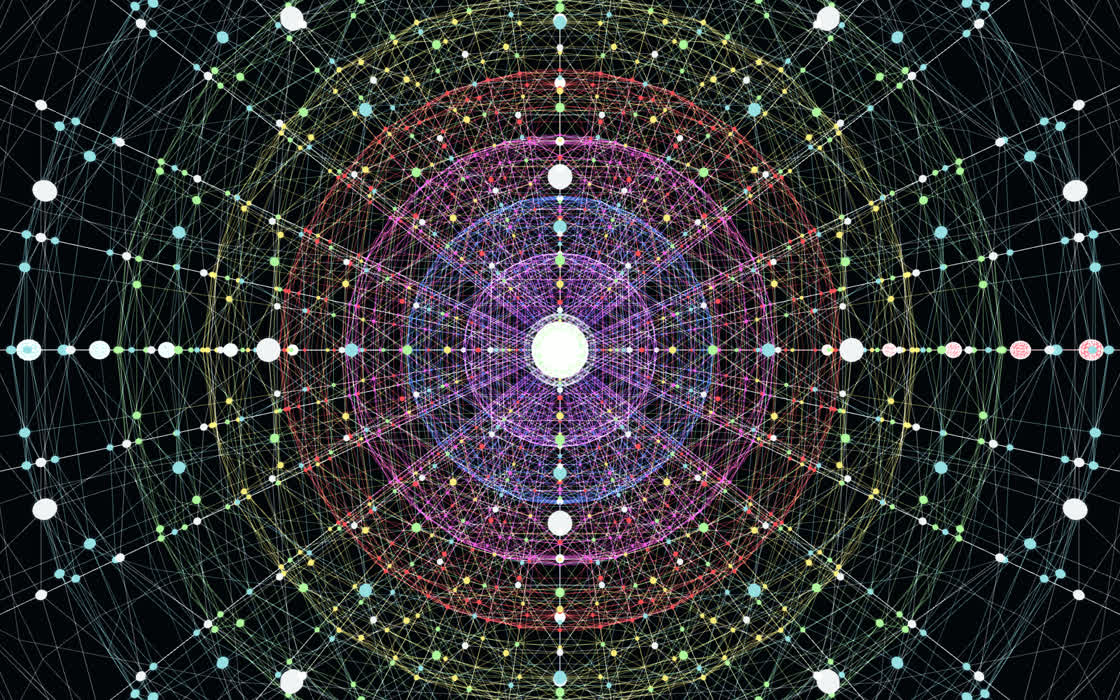
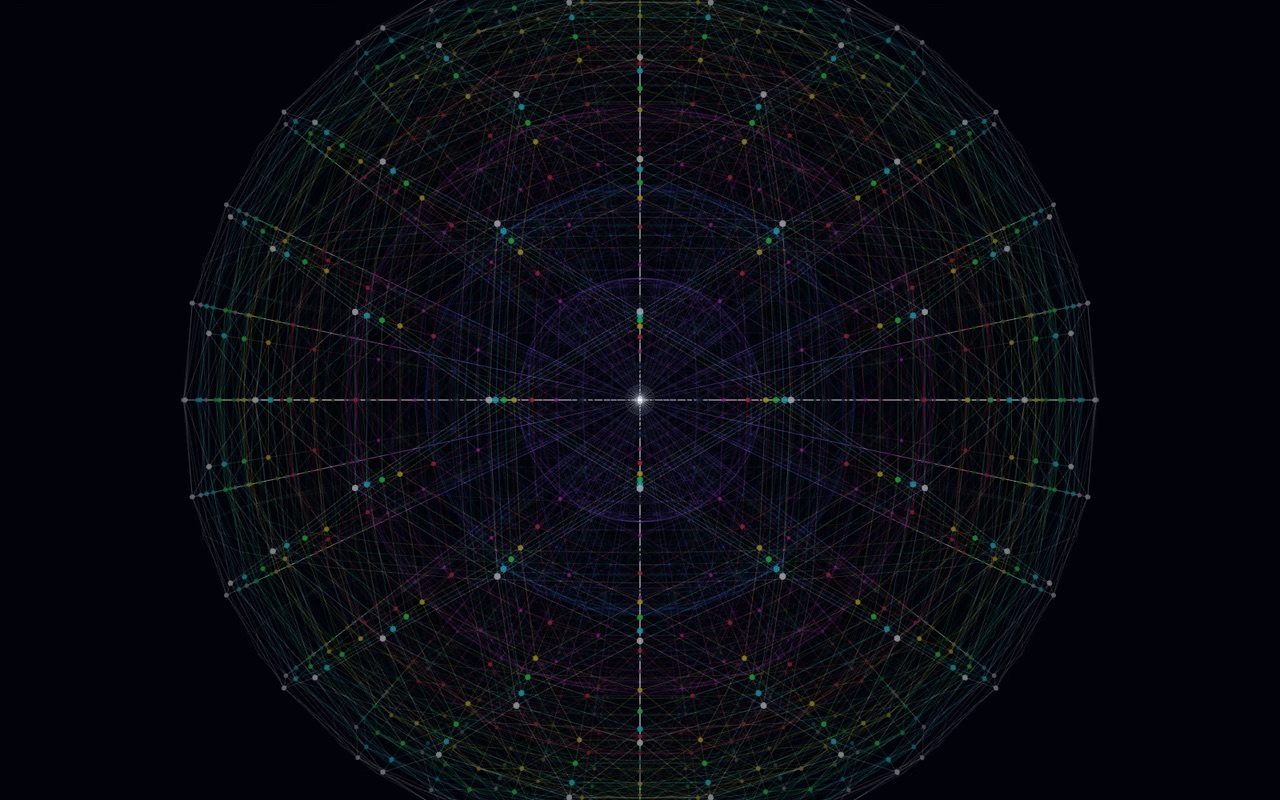
NEXUS-Galerie: sauberes Mandala statt beschnittener Panel-Ansicht; Bilder nicht mehr abgeschnitten
- Start-Seite NEXUS: doppelte/ueberlagerte Panel-Screenshots ersetzt durch
  vollflaechiges 2.323-Knoten-Mandala (aus nexus-mathematisch.html, Panels ausgeblendet)
- Neue saubere 16:10-Loops: Ruhe, Signal, Zusammenarbeit (nexus-mandala/-signal/-zusammen)
- .nx-slide object-fit: cover -> contain, damit nichts mehr abgeschnitten wird
- Cache-Version v=45 -> v=46

diff --git a/index.html b/index.html
@@ -4,7 +4,7 @@
 <meta charset="UTF-8">
 <meta name="viewport" content="width=device-width, initial-scale=1.0">
 <title>MikaTec — Software-Entwicklung</title>
-<link rel="stylesheet" href="style.css?v=45">
+<link rel="stylesheet" href="style.css?v=46">
 <link rel="icon" type="image/svg+xml" href="logos/mikatec-L4.svg">
 <meta name="description" content="MikaTec — individuelle Software-Entwicklung für Desktop, Web und Mobil. Echte Projekte, ein Ansprechpartner, klare Absprachen.">
 <meta property="og:type" content="website">
@@ -12,7 +12,7 @@
 <meta property="og:description" content="Individuelle Software für Desktop, Web und Mobil — gezeigt an echten Projekten.">
 <meta property="og:image" content="https://mika-tec.com/bilder/asa-trading.png">
 <meta name="twitter:card" content="summary_large_image">
-<script src="theme.js?v=45"></script>
+<script src="theme.js?v=46"></script>
 </head>
 <body>
 
@@ -178,8 +178,8 @@
           <div class="nx-slider" id="nxSlider">
             <div class="nx-track" id="nxTrack">
               <div class="nx-slide">
-                <video autoplay muted loop playsinline preload="metadata" poster="bilder/nexus-struktur.png">
-                  <source src="bilder/nexus-struktur-loop.mp4" type="video/mp4">
+                <video autoplay muted loop playsinline preload="metadata" poster="bilder/nexus-mandala-poster.jpg">
+                  <source src="bilder/nexus-mandala-loop.mp4" type="video/mp4">
                 </video>
                 <span class="cap">Struktur-Netz · 2.323 Knoten · 9 Schalen</span>
               </div>
@@ -187,13 +187,17 @@
                 <video muted loop playsinline preload="metadata" poster="bilder/nexus-signal-poster.jpg">
                   <source src="bilder/nexus-signal-loop.mp4" type="video/mp4">
                 </video>
-                <span class="cap">Signal-Simulation · ein Impuls läuft durchs Netz</span>
+                <span class="cap">Signal-Simulation · ein Impuls läuft vom Kern K1 durchs Netz</span>
               </div>
               <div class="nx-slide">
-                <video muted loop playsinline preload="metadata" poster="bilder/nexus-signal-poster.jpg">
+                <video muted loop playsinline preload="metadata" poster="bilder/nexus-mandala-poster.jpg">
                   <source src="bilder/nexus-zusammen-loop.mp4" type="video/mp4">
                 </video>
-                <span class="cap">Zusammenarbeit · Knoten verbinden sich</span>
+                <span class="cap">Zusammenarbeit · Knoten koppeln sich zum Verbund</span>
+              </div>
+              <div class="nx-slide">
+                <img src="bilder/nexus-mandala.png" alt="NEXUS Struktur-Netz — 2.323 Knoten in 9 Schalen" loading="lazy">
+                <span class="cap">Gesamt-Struktur · das digitale Gehirn in Ruhe</span>
               </div>
               <div class="nx-slide">
                 <video muted loop playsinline preload="metadata" poster="bilder/nexus-kern.png">
@@ -204,10 +208,6 @@
               <div class="nx-slide">
                 <img src="bilder/nexus-kern.png" alt="K1 — der goldene KI-Kern in Nahaufnahme" loading="lazy">
                 <span class="cap">K1 · der KI-Kern · Nahaufnahme</span>
-              </div>
-              <div class="nx-slide">
-                <img src="bilder/nexus-struktur.png" alt="NEXUS Struktur-Netz — Gesamtansicht mit Steuer-Panelen" loading="lazy">
-                <span class="cap">Struktur-Netz · Gesamtansicht in der App</span>
               </div>
               <div class="nx-slide">
                 <video muted loop playsinline preload="metadata" poster="bilder/nexus-wuerfel.png">

diff --git a/datenschutz.html b/datenschutz.html
@@ -4,9 +4,9 @@
 <meta charset="UTF-8">
 <meta name="viewport" content="width=device-width, initial-scale=1.0">
 <title>Datenschutz — MikaTec</title>
-<link rel="stylesheet" href="style.css?v=45">
+<link rel="stylesheet" href="style.css?v=46">
 <link rel="icon" type="image/svg+xml" href="logos/mikatec-L4.svg">
-<script src="theme.js?v=45"></script>
+<script src="theme.js?v=46"></script>
 <style>
   .legal { max-width: 760px; }
   .legal h2 { font-size:1.15rem; margin:28px 0 8px; }

diff --git a/impressum.html b/impressum.html
@@ -4,9 +4,9 @@
 <meta charset="UTF-8">
 <meta name="viewport" content="width=device-width, initial-scale=1.0">
 <title>Impressum — MikaTec</title>
-<link rel="stylesheet" href="style.css?v=45">
+<link rel="stylesheet" href="style.css?v=46">
 <link rel="icon" type="image/svg+xml" href="logos/mikatec-L4.svg">
-<script src="theme.js?v=45"></script>
+<script src="theme.js?v=46"></script>
 <style>
   .legal { max-width: 760px; }
   .legal h2 { font-size:1.15rem; margin:28px 0 8px; }

diff --git a/kontakt.html b/kontakt.html
@@ -4,7 +4,7 @@
 <meta charset="UTF-8">
 <meta name="viewport" content="width=device-width, initial-scale=1.0">
 <title>Kontakt — MikaTec</title>
-<link rel="stylesheet" href="style.css?v=45">
+<link rel="stylesheet" href="style.css?v=46">
 <link rel="icon" type="image/svg+xml" href="logos/mikatec-L4.svg">
 <meta name="description" content="Kontakt zu MikaTec — erzähl mir unverbindlich von deinem Projekt. Gespräch, Angebot, Umsetzung, Übergabe.">
 <meta property="og:type" content="website">
@@ -12,7 +12,7 @@
 <meta property="og:description" content="Hast du ein Projekt im Kopf? Schreib mir — wir finden heraus, was möglich ist.">
 <meta property="og:image" content="https://mika-tec.com/logos/mikatec-L4.svg">
 <meta name="twitter:card" content="summary">
-<script src="theme.js?v=45"></script>
+<script src="theme.js?v=46"></script>
 </head>
 <body>
 

diff --git a/leistungen.html b/leistungen.html
@@ -4,7 +4,7 @@
 <meta charset="UTF-8">
 <meta name="viewport" content="width=device-width, initial-scale=1.0">
 <title>Leistungen — MikaTec</title>
-<link rel="stylesheet" href="style.css?v=45">
+<link rel="stylesheet" href="style.css?v=46">
 <link rel="icon" type="image/svg+xml" href="logos/mikatec-L4.svg">
 <meta name="description" content="Leistungen von MikaTec: Desktop-Apps, Web-Anwendungen, KI-Integration, Branchensoftware, Automatisierung und Design-Systeme.">
 <meta property="og:type" content="website">
@@ -12,7 +12,7 @@
 <meta property="og:description" content="Desktop, Web, KI, Spezialsoftware, Automatisierung und Design — aus einer Hand.">
 <meta property="og:image" content="https://mika-tec.com/bilder/aka-bauelemente.png">
 <meta name="twitter:card" content="summary_large_image">
-<script src="theme.js?v=45"></script>
+<script src="theme.js?v=46"></script>
 </head>
 <body>
 

diff --git a/projekte.html b/projekte.html
@@ -4,7 +4,7 @@
 <meta charset="UTF-8">
 <meta name="viewport" content="width=device-width, initial-scale=1.0">
 <title>Projekte — MikaTec</title>
-<link rel="stylesheet" href="style.css?v=45">
+<link rel="stylesheet" href="style.css?v=46">
 <link rel="icon" type="image/svg+xml" href="logos/mikatec-L4.svg">
 <meta name="description" content="Projekte von MikaTec — echte Anwendungen aus der eigenen Werkstatt, gezeigt und erklärt: vom Internet-Atlas bis zum medizinischen Bild-Viewer.">
 <meta property="og:type" content="website">
@@ -12,7 +12,7 @@
 <meta property="og:description" content="Echte Anwendungen aus der eigenen Werkstatt — gezeigt und erklärt.">
 <meta property="og:image" content="https://mika-tec.com/bilder/netz-atlas.png">
 <meta name="twitter:card" content="summary_large_image">
-<script src="theme.js?v=45"></script>
+<script src="theme.js?v=46"></script>
 </head>
 <body>
 

diff --git a/style.css b/style.css
@@ -473,8 +473,8 @@ main > section + section { border-top: 1px solid var(--border-soft); }
   scrollbar-width: none;
 }
 .nx-track::-webkit-scrollbar { display: none; }
-.nx-slide { flex: 0 0 100%; scroll-snap-align: center; position: relative; aspect-ratio: 16 / 10; }
-.nx-slide video, .nx-slide img { position: absolute; inset: 0; width: 100%; height: 100%; object-fit: cover; display: block; }
+.nx-slide { flex: 0 0 100%; scroll-snap-align: center; position: relative; aspect-ratio: 16 / 10; background: #04060a; }
+.nx-slide video, .nx-slide img { position: absolute; inset: 0; width: 100%; height: 100%; object-fit: contain; display: block; }
 .nx-slide .cap {
   position: absolute; left: 12px; bottom: 12px; z-index: 2;
   font-family: var(--mono); font-size: .66rem; letter-spacing: 1px; text-transform: uppercase;

diff --git a/ueber.html b/ueber.html
@@ -4,7 +4,7 @@
 <meta charset="UTF-8">
 <meta name="viewport" content="width=device-width, initial-scale=1.0">
 <title>Über mich — MikaTec</title>
-<link rel="stylesheet" href="style.css?v=45">
+<link rel="stylesheet" href="style.css?v=46">
 <link rel="icon" type="image/svg+xml" href="logos/mikatec-L4.svg">
 <meta name="description" content="Hinter MikaTec steht Hasan Tepegöz — über 20 Jahre Gesundheitswesen mit IT-Verantwortung für Pflegesoftware, gelernter Elektriker/Elektroniker und Software-Entwickler.">
 <meta property="og:type" content="website">
@@ -12,7 +12,7 @@
 <meta property="og:description" content="Branchen-Know-how aus dem Gesundheitswesen, IT-Praxis mit Pflegesoftware und technische Ausbildung — Software, die den Alltag wirklich trifft.">
 <meta property="og:image" content="https://mika-tec.com/logos/mikatec-L4.svg">
 <meta name="twitter:card" content="summary">
-<script src="theme.js?v=45"></script>
+<script src="theme.js?v=46"></script>
 </head>
 <body>
 